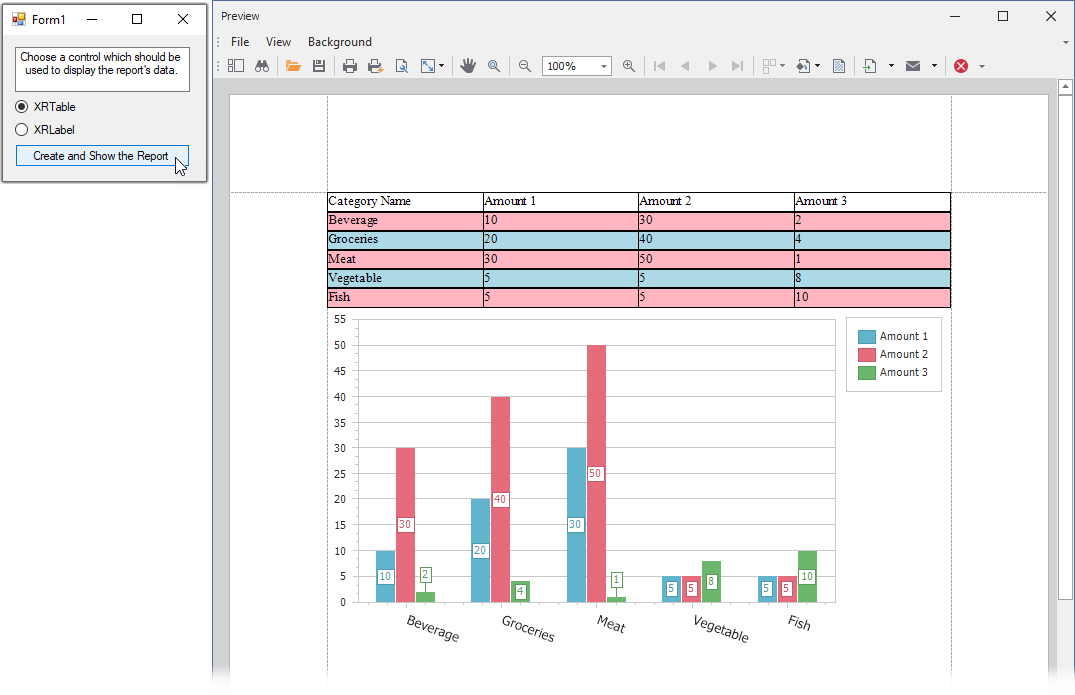
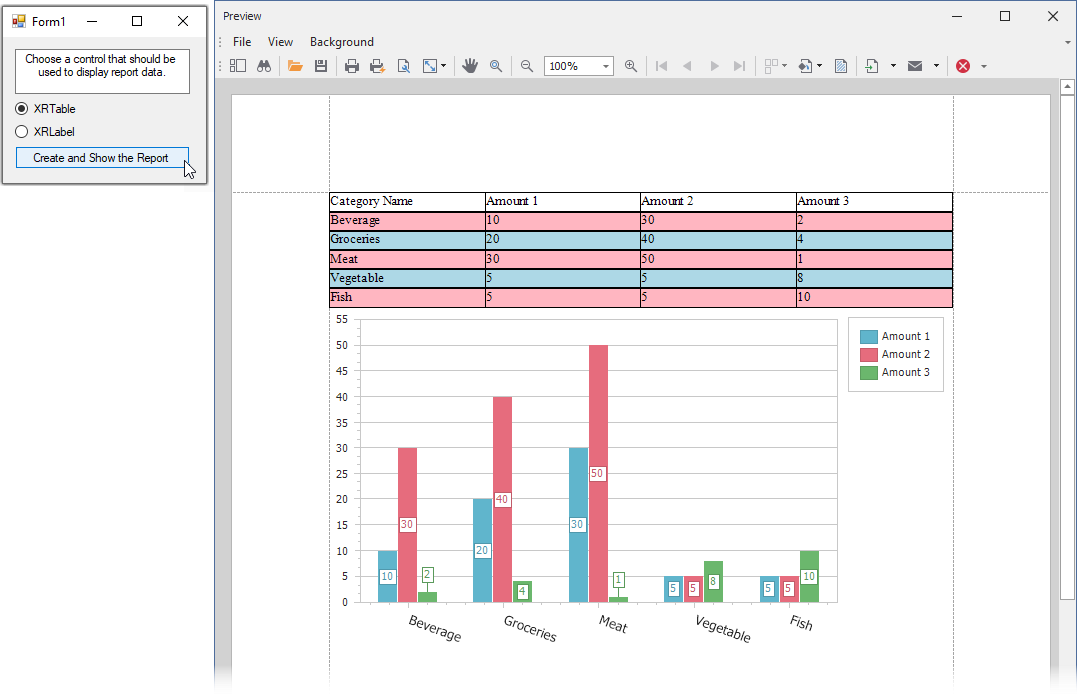
auto sync for version 21.2.3+

diff --git a/CS/Form1.Designer.cs b/CS/Form1.Designer.cs
@@ -68,7 +68,7 @@
             this.textBox1.Name = "textBox1";
             this.textBox1.Size = new System.Drawing.Size(175, 45);
             this.textBox1.TabIndex = 3;
-            this.textBox1.Text = "Choose a control which should be used to display the report\'s data.";
+            this.textBox1.Text = "Choose a control that should be used to display report data.";
             this.textBox1.TextAlign = System.Windows.Forms.HorizontalAlignment.Center;
             // 
             // Form1

diff --git a/Readme.md b/Readme.md
@@ -1,7 +1,3 @@
-<!-- default badges list -->
-[![](https://img.shields.io/badge/Open_in_DevExpress_Support_Center-FF7200?style=flat-square&logo=DevExpress&logoColor=white)](https://supportcenter.devexpress.com/ticket/details/E4657)
-[![](https://img.shields.io/badge/📖_How_to_use_DevExpress_Examples-e9f6fc?style=flat-square)](https://docs.devexpress.com/GeneralInformation/403183)
-<!-- default badges end -->
 # Reporting for WinForms - Create a Report Dynamically and Bind It to a DataSet
 
 This example demonstrates how to create a report dynamically and bind it to a [DataSet](https://docs.devexpress.com/XtraReports/400542). Based on a user's choice, either the [XRTable](https://docs.devexpress.com/XtraReports/DevExpress.XtraReports.UI.XRTable) or [XRLabel](https://docs.devexpress.com/XtraReports/DevExpress.XtraReports.UI.XRLabel) control is used to display report data, and the [XRChart](https://docs.devexpress.com/XtraReports/DevExpress.XtraReports.UI.XRChart) control is used to visualize this data.
